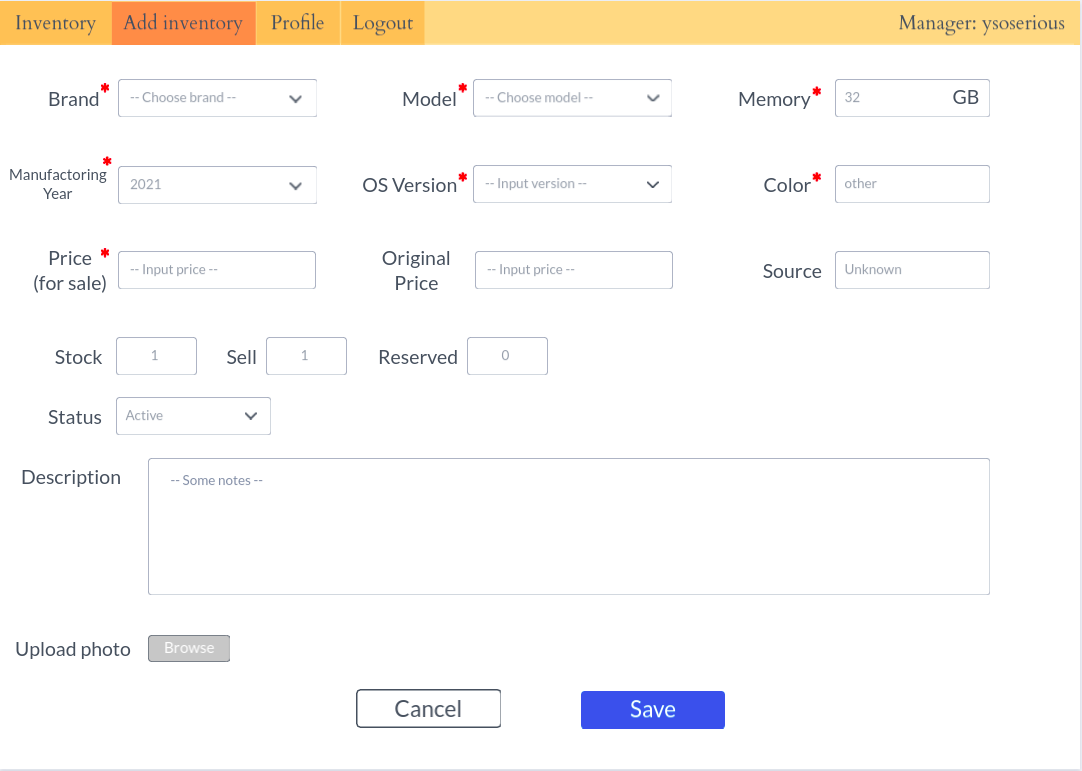
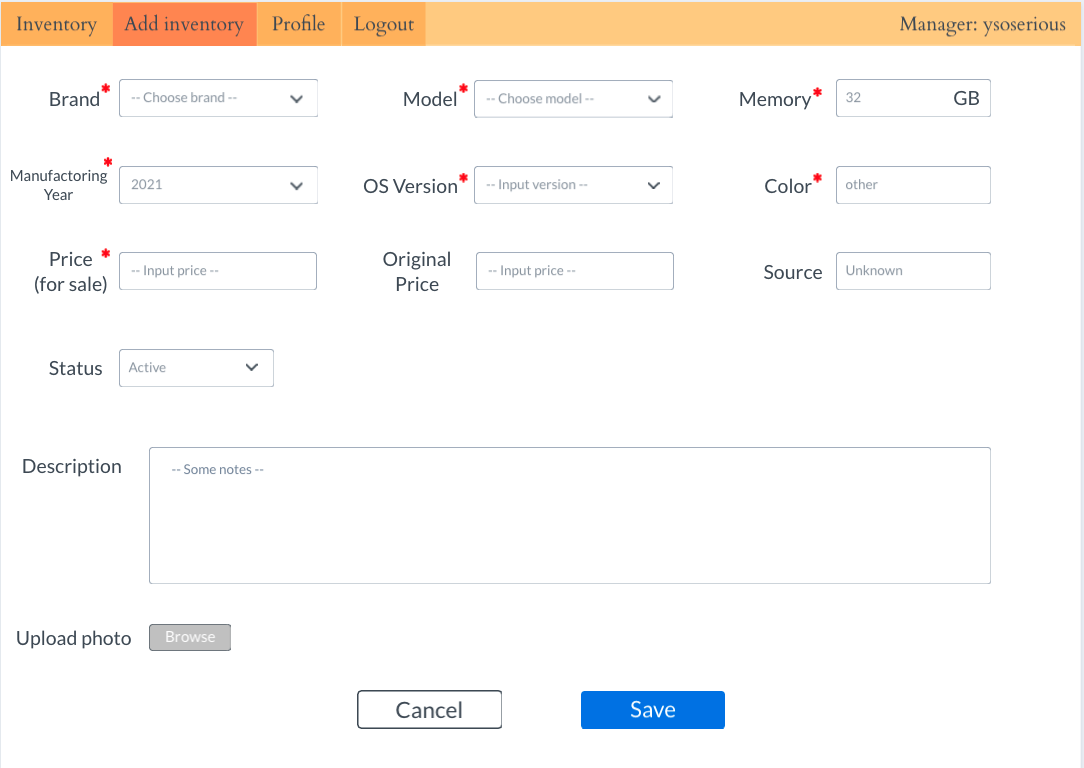
Remove amount for batch/stock management

diff --git a/requirement.md b/requirement.md
@@ -30,8 +30,7 @@ Search/filter inventories based on queried fields.
 
 Optional:
 
-- Stock, sell, reserve amount: Stock = sell + reserve (sell: product shows out for sale, reserve: product kept in storage)
-- Status (current status of inventory: active, inactive, sold-out, out-of-stock)
+- Status (current status of inventory: active, inactive, sold)
 - Original Price (price when phone is bought from the owner)
 - Source (phone used to belong to whom..)
 - Description note about product
@@ -62,9 +61,8 @@ In filter box:
 - Drop list of memory size: <16GB, 16GB -> 64GB, 64GB->256GB, > 256GB. Or custom 'from - to' with fix 'GB' unit.
 - Manufactoring year: 'from - to' (default 'to': 2021)
 - Status:
-  - Active: currently have in stock and able to sell
-  - Inactive: soft delete, reserve in stock
-  - Sold out: no more product to sell, only reserved products in stock (stock = N, sell = 0, reserve = N)
-  - Out-of-stock: no more product in stock (stock = 0, sell = 0, reserve = 0)
+  - Active: currently in stock to sell
+  - Inactive: reserve in stock, not to sell
+  - Sold: used to be in stock, be bought
 
 When user 'add new inventory', user choose 'brand' and 'model' in drop list, if new brand or new model -> user can choose 'other' and type new brand or model inside -> update DB new brand and model corresponding to the brand.
